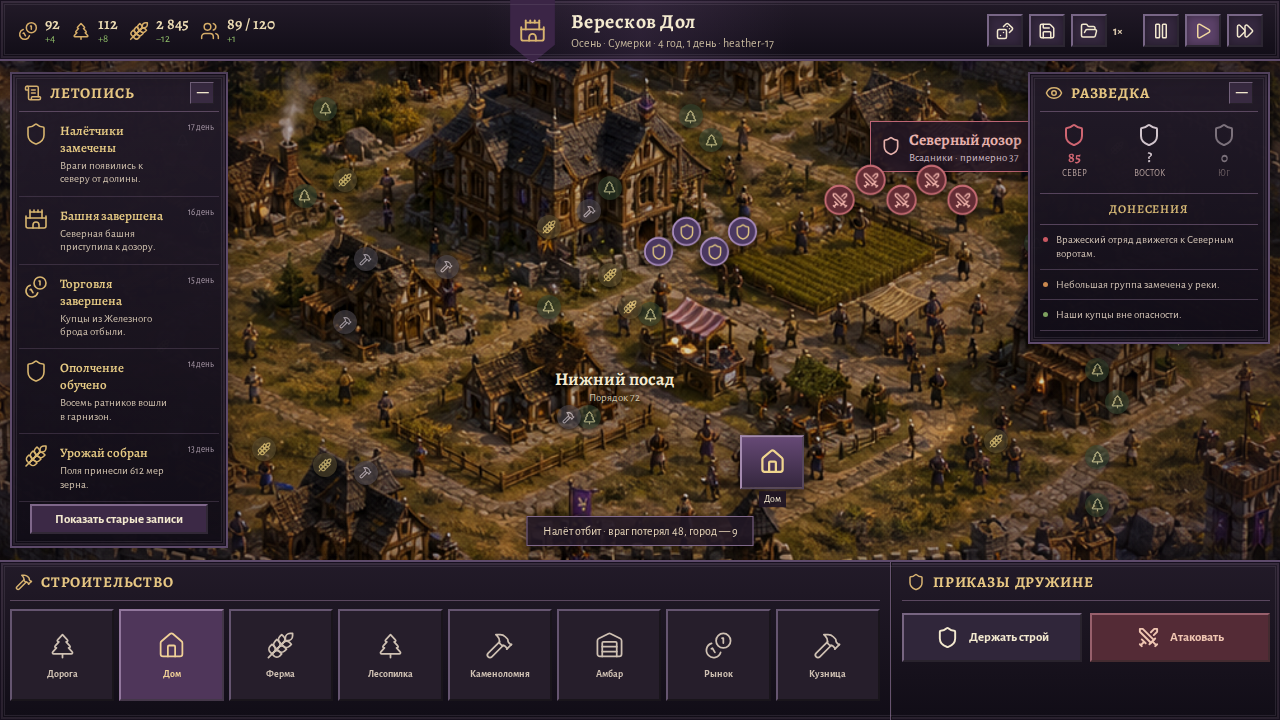
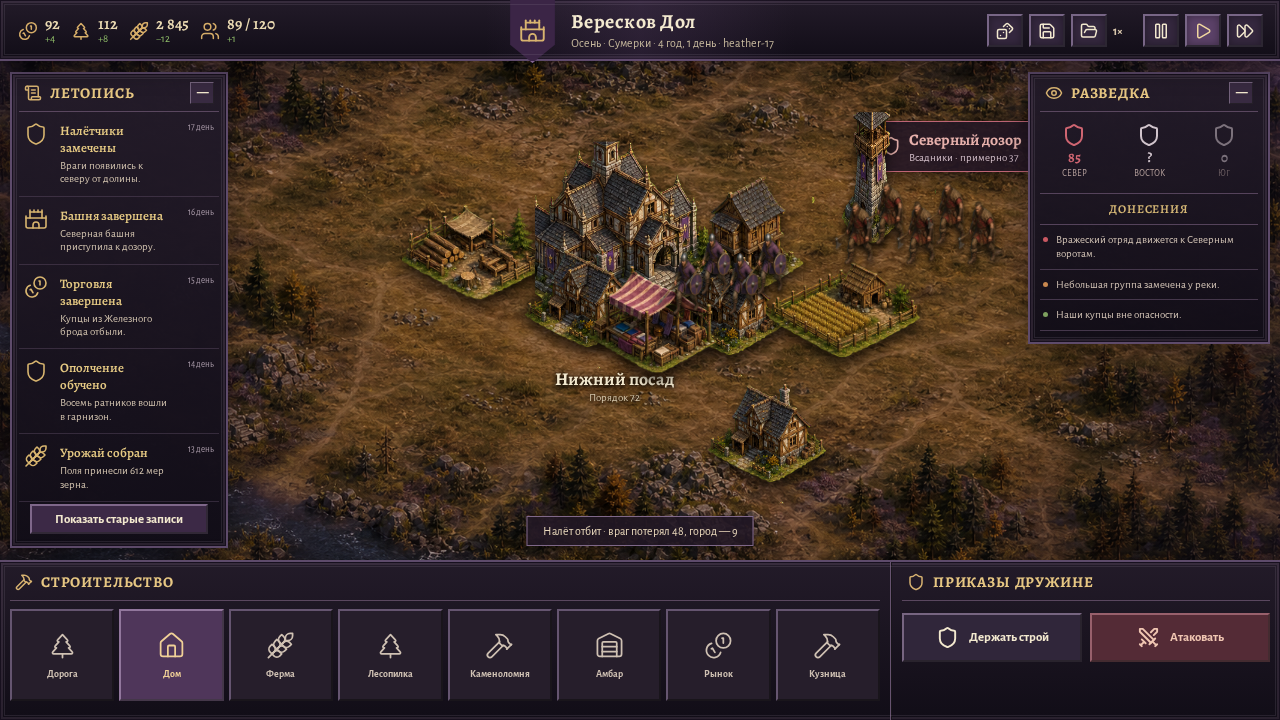
art: replace static city with playable sprite scene

diff --git a/src/App.vue b/src/App.vue
@@ -32,7 +32,6 @@ import { decodeSave, encodeSave } from './game/persistence'
 
 const game = reactive(createGame('heather-17'))
 revealThreat(game, 'raiders', 85)
-const initialBuildingCount = game.buildings.length
 const selectedTool = ref<BuildingKind>('road')
 const speed = ref<0 | 1 | 4>(1)
 const notice = ref('Выберите постройку и укажите место на карте')
@@ -41,6 +40,21 @@ const stressMode = new URLSearchParams(window.location.search).has('stress')
 const friendlyUnitCount = stressMode ? 150 : 4
 const enemyUnitCount = stressMode ? 150 : 5
 let worldCounter = 1
+
+const buildingAssetPositions: Record<BuildingKind, string> = {
+  road: '0% 0%',
+  house: '33.333% 0%',
+  farm: '66.667% 0%',
+  lumberCamp: '100% 0%',
+  quarry: '0% 50%',
+  granary: '33.333% 50%',
+  market: '66.667% 50%',
+  smithy: '100% 50%',
+  barracks: '0% 100%',
+  watchtower: '33.333% 100%',
+  wall: '66.667% 100%',
+  townHall: '100% 100%',
+}
 
 const resources = computed(() => [
   { key: 'silver', label: 'Серебро', value: game.resources.silver.toLocaleString('ru-RU'), gain: '+4', icon: Coins },
@@ -73,7 +87,7 @@ const buildings: Array<{ label: string; kind: BuildingKind; icon: typeof House }
   { label: 'Ратуша', kind: 'townHall', icon: Castle },
 ]
 
-const placedBuildings = computed(() => game.buildings.slice(initialBuildingCount))
+const placedBuildings = computed(() => game.buildings)
 const primaryThreat = computed(() => game.threats.find((threat) => threat.status !== 'disbanded'))
 
 function chooseSpeed(value: 0 | 1 | 4) {
@@ -94,6 +108,14 @@ function buildAt(event: MouseEvent) {
 
 function buildingStyle(x: number, y: number) {
   return { left: `${(x / 63) * 100}%`, top: `${(y / 63) * 100}%` }
+}
+
+function placedBuildingStyle(kind: BuildingKind, x: number, y: number) {
+  return {
+    ...buildingStyle(x, y),
+    backgroundPosition: buildingAssetPositions[kind],
+    zIndex: 10 + y,
+  }
 }
 
 function battleUnitStyle(index: number, side: 'friendly' | 'enemy') {
@@ -183,26 +205,29 @@ onUnmounted(() => window.clearInterval(timer))
     </header>
 
     <section class="world" aria-label="Карта поселения" data-testid="world" @click="buildAt">
-      <img src="/assets/concepts/openfront-primary-screen.png" alt="Средневековый город Вересков Дол" />
+      <img :src="'/assets/terrain/empty-valley.png'" alt="Пустая средневековая долина Вересков Дол" />
       <div class="world-vignette"></div>
       <div
-        v-for="(point, index) in game.map.forests.slice(0, 18)"
+        v-for="(point, index) in game.map.forests.slice(0, 8)"
         :key="`forest-${index}-${game.map.seed}`"
-        class="map-feature forest"
+        class="resource-zone forest"
+        aria-label="Лесные угодья"
         :style="buildingStyle(point.x, point.y)"
-      ><TreePine :size="15" /></div>
+      ></div>
       <div
-        v-for="(point, index) in game.map.fertileFields.slice(0, 10)"
+        v-for="(point, index) in game.map.fertileFields.slice(0, 5)"
         :key="`field-${index}-${game.map.seed}`"
-        class="map-feature field"
+        class="resource-zone field"
+        aria-label="Плодородная земля"
         :style="buildingStyle(point.x, point.y)"
-      ><Wheat :size="14" /></div>
+      ></div>
       <div
-        v-for="(point, index) in game.map.stoneDeposits.slice(0, 6)"
+        v-for="(point, index) in game.map.stoneDeposits.slice(0, 3)"
         :key="`stone-${index}-${game.map.seed}`"
-        class="map-feature stone"
+        class="resource-zone stone"
+        aria-label="Каменная жила"
         :style="buildingStyle(point.x, point.y)"
-      ><Hammer :size="13" /></div>
+      ></div>
       <div v-if="primaryThreat" class="raid-marker">
         <Shield :size="20" />
         <div><strong>Северный дозор</strong><span>Всадники · примерно {{ primaryThreat.strength }}</span></div>
@@ -215,23 +240,23 @@ onUnmounted(() => window.clearInterval(timer))
           class="battle-unit friendly"
           data-testid="friendly-unit"
           :style="battleUnitStyle(index, 'friendly')"
-        ><Shield :size="18" /></div>
+        ></div>
         <div
           v-for="index in enemyUnitCount"
           :key="`enemy-${index}`"
           class="battle-unit enemy"
           data-testid="enemy-unit"
           :style="battleUnitStyle(index, 'enemy')"
-        ><Swords :size="18" /></div>
+        ></div>
       </template>
       <div
         v-for="building in placedBuildings"
         :key="building.id"
-        class="placed-building"
+        :class="['placed-building', `asset-${building.kind}`]"
         data-testid="placed-building"
-        :style="buildingStyle(building.x, building.y)"
+        :data-asset="building.kind"
+        :style="placedBuildingStyle(building.kind, building.x, building.y)"
       >
-        <component :is="buildings.find((item) => item.kind === building.kind)?.icon || House" :size="27" />
         <span>{{ buildings.find((item) => item.kind === building.kind)?.label }}</span>
       </div>
       <div class="notice" data-testid="notice">{{ notice }}</div>

diff --git a/src/styles.css b/src/styles.css
@@ -44,7 +44,7 @@ button:focus-visible { outline: 2px solid #f0cc82; outline-offset: 2px; }
 .square-button:active { border-style: inset; transform: translateY(1px); }
 
 .world { position: absolute; inset: 61px 0 160px; overflow: hidden; background: #5f6950; }
-.world > img { width: 100%; height: 100%; object-fit: cover; object-position: center 48%; filter: saturate(.92) contrast(1.03) brightness(.86); transform: scale(1.66); }
+.world > img { width: 100%; height: 100%; object-fit: cover; object-position: center 52%; filter: saturate(.92) contrast(1.03) brightness(.83); transform: scale(1.04); }
 .world-vignette { position: absolute; inset: 0; background: radial-gradient(circle at 52% 48%, transparent 45%, rgba(20,13,24,.4) 100%); pointer-events: none; }
 .raid-marker { position: absolute; top: 12%; left: 68%; display: flex; align-items: center; gap: 8px; padding: 7px 10px; background: rgba(35,22,35,.9); border: 1px solid #be6575; box-shadow: 0 4px 18px #0009; color: #e7b1ac; }
 .raid-marker div { display: grid; }
@@ -52,15 +52,16 @@ button:focus-visible { outline: 2px solid #f0cc82; outline-offset: 2px; }
 .raid-marker span { font-size: 11px; color: #d1bdc7; }
 .town-label { position: absolute; left: 48%; top: 65%; transform: translate(-50%,-50%); display: grid; text-align: center; text-shadow: 0 2px 5px #000,0 0 10px #000; pointer-events: none; }
 .town-label span { font: 700 18px 'Alegreya', serif; }.town-label i { font-style: normal; font-size: 11px; color: #d3c5aa; }
-.placed-building { position: absolute; z-index: 4; transform: translate(-50%,-70%); width: 64px; height: 54px; display: grid; place-items: center; color: #f0d58e; background: linear-gradient(#664975,#35273e); border: 2px outset #a48aae; box-shadow: 0 5px 14px #000b; cursor: default; }
-.placed-building span { position: absolute; top: 100%; margin-top: 4px; padding: 2px 5px; color: #f3e9cf; background: #1c1323e6; font-size: 10px; white-space: nowrap; }
-.battle-unit { position: absolute; z-index: 4; width: 31px; height: 31px; display: grid; place-items: center; border-radius: 50%; box-shadow: 0 3px 12px #000d; animation: battle-pulse 1.1s ease-in-out infinite alternate; }
-.battle-unit.friendly { color: #e0c582; background: #4b3860; border: 2px solid #a98cbd; }
-.battle-unit.enemy { color: #f0b3aa; background: #632d35; border: 2px solid #c76d75; animation-delay: -.45s; }
+.placed-building { position: absolute; transform: translate(-50%,-78%); width: 172px; height: 156px; background-image: url('/assets/buildings/building-atlas.png'); background-repeat: no-repeat; background-size: 400% 300%; filter: drop-shadow(0 8px 6px #000a); cursor: default; }
+.placed-building.asset-townHall { width: 230px; height: 212px; }.placed-building.asset-watchtower { width: 124px; height: 178px; }.placed-building.asset-house { width: 148px; height: 138px; }.placed-building.asset-road { width: 132px; height: 90px; transform: translate(-50%,-50%); }.placed-building.asset-wall { width: 176px; height: 118px; }
+.placed-building span { position: absolute; left: 50%; top: 90%; transform: translateX(-50%); padding: 2px 6px; color: #f3e9cf; background: #1c1323e8; border: 1px solid #695573; font-size: 10px; white-space: nowrap; opacity: 0; transition: opacity .15s ease; }
+.placed-building:hover span { opacity: 1; }
+.battle-unit { position: absolute; z-index: 80; width: 78px; height: 98px; background-image: url('/assets/units/combatants.png'); background-repeat: no-repeat; background-size: 200% 100%; filter: drop-shadow(0 4px 3px #000c); animation: battle-pulse 1.1s ease-in-out infinite alternate; }
+.battle-unit.friendly { background-position: 0 0; }
+.battle-unit.enemy { background-position: 100% 0; animation-delay: -.45s; }
 .stress-mode .battle-unit { width: 12px; height: 12px; contain: strict; animation: none; box-shadow: 0 2px 4px #000b; }
-.stress-mode .battle-unit svg { width: 8px; height: 8px; }
-.map-feature { position: absolute; z-index: 2; transform: translate(-50%,-50%); width: 24px; height: 24px; display: grid; place-items: center; border-radius: 50%; opacity: .72; filter: drop-shadow(0 2px 2px #000); pointer-events: none; }
-.map-feature.forest { color: #d0d19b; background: #354933b8; }.map-feature.field { color: #f0d584; background: #635534b8; }.map-feature.stone { color: #d2c8d3; background: #514c53c4; }
+.resource-zone { position: absolute; z-index: 2; transform: translate(-50%,-50%) rotate(-9deg); width: 76px; height: 38px; border-radius: 50%; opacity: .27; pointer-events: none; mix-blend-mode: multiply; }
+.resource-zone.forest { background: radial-gradient(ellipse, #233d26 0 42%, transparent 70%); }.resource-zone.field { background: radial-gradient(ellipse, #a88a42 0 40%, transparent 72%); }.resource-zone.stone { width: 54px; height: 31px; background: radial-gradient(ellipse, #4d4a4d 0 38%, transparent 72%); }
 @keyframes battle-pulse { from { transform: translateY(0) scale(.94); } to { transform: translateY(-4px) scale(1.04); } }
 .notice { position: absolute; z-index: 5; left: 50%; bottom: 14px; transform: translateX(-50%); padding: 7px 15px; color: #e9d8bb; background: #211725e6; border: 1px solid #80698a; box-shadow: 0 4px 12px #0008; font-size: 12px; pointer-events: none; }
 

diff --git a/tests/app-shell.test.ts b/tests/app-shell.test.ts
@@ -11,13 +11,17 @@ describe('Openfront shell', () => {
 
   it('selects a building tool and places it on the world', async () => {
     const wrapper = mount(App)
+    expect(wrapper.findAll('[data-testid="placed-building"]')).toHaveLength(8)
+    expect(wrapper.get('[data-testid="world"] img').attributes('src')).toContain('empty-valley')
     const house = wrapper.get('[data-kind="house"]')
     await house.trigger('click')
     expect(house.classes()).toContain('active')
 
     await wrapper.get('[data-testid="world"]').trigger('click', { clientX: 560, clientY: 360 })
 
-    expect(wrapper.findAll('[data-testid="placed-building"]')).toHaveLength(1)
+    expect(wrapper.findAll('[data-testid="placed-building"]')).toHaveLength(9)
+    expect(wrapper.findAll('[data-testid="placed-building"] svg')).toHaveLength(0)
+    expect(wrapper.findAll('[data-testid="placed-building"]')[8].attributes('data-asset')).toBe('house')
     expect(wrapper.get('[data-resource="wood"]').text()).toContain('112')
   })
 
@@ -39,6 +43,8 @@ describe('Openfront shell', () => {
     expect(wrapper.get('[data-testid="notice"]').text()).toContain('Налёт отбит')
     expect(wrapper.findAll('[data-testid="friendly-unit"]').length).toBeGreaterThan(0)
     expect(wrapper.findAll('[data-testid="enemy-unit"]').length).toBeGreaterThan(0)
+    expect(wrapper.findAll('[data-testid="friendly-unit"] svg')).toHaveLength(0)
+    expect(wrapper.findAll('[data-testid="enemy-unit"] svg')).toHaveLength(0)
   })
 
   it('creates a new procedural valley and keeps a local save', async () => {

diff --git a/tests/e2e/openfront.spec.ts b/tests/e2e/openfront.spec.ts
@@ -8,17 +8,18 @@ test('builds, saves, reloads, and fights on the live map', async ({ page }) => {
 
   await page.goto('/')
   const seedBefore = await page.getByTestId('seed').textContent()
+  await expect(page.getByTestId('placed-building')).toHaveCount(8)
 
   await page.locator('[data-kind="house"]').click()
   await page.getByTestId('world').click({ position: { x: 780, y: 410 } })
-  await expect(page.getByTestId('placed-building')).toHaveCount(1)
+  await expect(page.getByTestId('placed-building')).toHaveCount(9)
 
   await page.locator('[data-action="save"]').click()
   await expect(page.getByTestId('notice')).toContainText('Поселение сохранено')
   await page.locator('[data-action="new-world"]').click()
   await expect(page.getByTestId('seed')).not.toHaveText(seedBefore ?? '')
   await page.locator('[data-action="load"]').click()
-  await expect(page.getByTestId('placed-building')).toHaveCount(1)
+  await expect(page.getByTestId('placed-building')).toHaveCount(9)
 
   await page.locator('[data-action="attack"]').click()
   await expect(page.getByTestId('friendly-unit').first()).toBeVisible()

diff --git a/src/game/simulation.ts b/src/game/simulation.ts
@@ -147,13 +147,18 @@ export function createGame(seed: string): GameState {
       { id: 1, kind: 'townHall', x: 32, y: 31, progress: 1, health: 100 },
       { id: 2, kind: 'granary', x: 37, y: 30, progress: 1, health: 100 },
       { id: 3, kind: 'house', x: 29, y: 35, progress: 1, health: 100 },
+      { id: 4, kind: 'house', x: 36, y: 36, progress: 1, health: 100 },
+      { id: 5, kind: 'farm', x: 42, y: 36, progress: 1, health: 100 },
+      { id: 6, kind: 'lumberCamp', x: 24, y: 29, progress: 1, health: 100 },
+      { id: 7, kind: 'market', x: 33, y: 40, progress: 1, health: 100 },
+      { id: 8, kind: 'watchtower', x: 43, y: 24, progress: 1, health: 100 },
     ],
     threats: [],
     crises: [],
     events: [
-      { id: 4, day: 1, title: 'Новая летопись', text: 'Вересков Дол встречает осень.', tone: 'neutral' },
+      { id: 9, day: 1, title: 'Новая летопись', text: 'Вересков Дол встречает осень.', tone: 'neutral' },
     ],
-    nextId: 5,
+    nextId: 10,
   }
 }
 

diff --git a/README.md b/README.md
@@ -24,4 +24,4 @@ npm run test:e2e
 
 ## Границы первого прототипа
 
-Городская сцена использует цельный сгенерированный production-концепт как детализированную основу, а интерактивные постройки, ресурсы и бой накладываются поверх. Симуляция отделена от Vue и готова к переносу в Worker/Pixi-рендерер; в этом вертикальном срезе она работает в основном потоке, а сохранения находятся в `localStorage`.
+Мир собран из отдельного пустого ландшафта, растрового атласа двенадцати изометрических зданий и отдельного атласа боевых юнитов. Стартовые и построенные игроком здания являются самостоятельными объектами сцены. Симуляция отделена от Vue и готова к переносу в Worker/Pixi-рендерер; в этом вертикальном срезе она работает в основном потоке, а сохранения находятся в `localStorage`.

diff --git a/docs/qa/2026-07-20-prototype-qa.md b/docs/qa/2026-07-20-prototype-qa.md
@@ -25,9 +25,10 @@ The accepted concept is `docs/design/openfront-primary-screen.png`; the latest i
 4. Controls: all actionable controls use code-native beveled 1990s PC-game styling and Lucide SVG icons; there are no emoji or Unicode icon substitutes.
 5. World: the generated medieval town remains the visual hero; aggressive center cropping prevents the concept's embedded English interface from leaking behind the live UI.
 6. Responsiveness: at 1280×720, low-priority construction tools and the selected-building panel collapse to keep the map and raid controls usable.
+7. Scene assets: the map now uses a dedicated empty valley, twelve transparent building sprites, and separate militia/raider sprites. SVG remains confined to interface controls.
 
 ## Intentional prototype deviations
 
-- The first slice uses the accepted raster city concept rather than a complete individual sprite atlas.
+- The terrain is still one raster field rather than a procedural tile renderer, while every visible structure and combatant is now an independent scene object.
 - The framework-free simulation runs on the main thread; PixiJS and Worker extraction remain the next renderer milestone.
 - Saves use a checksummed, versioned `localStorage` envelope rather than IndexedDB.

diff --git a/docs/design/world-assets-prompts.md b/docs/design/world-assets-prompts.md
@@ -1,0 +1,15 @@
+# Openfront world asset prompts
+
+Generated with the built-in ImageGen pipeline using `openfront-primary-screen.png` as a style reference.
+
+## Empty valley
+
+Production 16:9 isometric city-builder terrain: a large empty dry-grass clearing, perimeter forest, river, rocks and subtle paths. Northern medieval earth-and-heather direction, warm late-autumn dusk, northwest light. No buildings, people, armies, interface, labels or text.
+
+## Building atlas
+
+Production 4×3 isometric sprite atlas on removable `#00ff00`: road, house, farm, lumber camp; quarry, granary, market, smithy; barracks, watchtower, wall, town hall. Equal cells, one complete centered sprite per cell, consistent camera/light/materials, no labels or UI. Chroma key was removed locally with soft matte and despill.
+
+## Unit atlas
+
+Production 2×1 isometric combat atlas on removable `#00ff00`: heather-purple town militia spearman and dusty-red tribal raider. Equal scale and facing, no labels or UI. Chroma key was removed locally with soft matte and despill.
